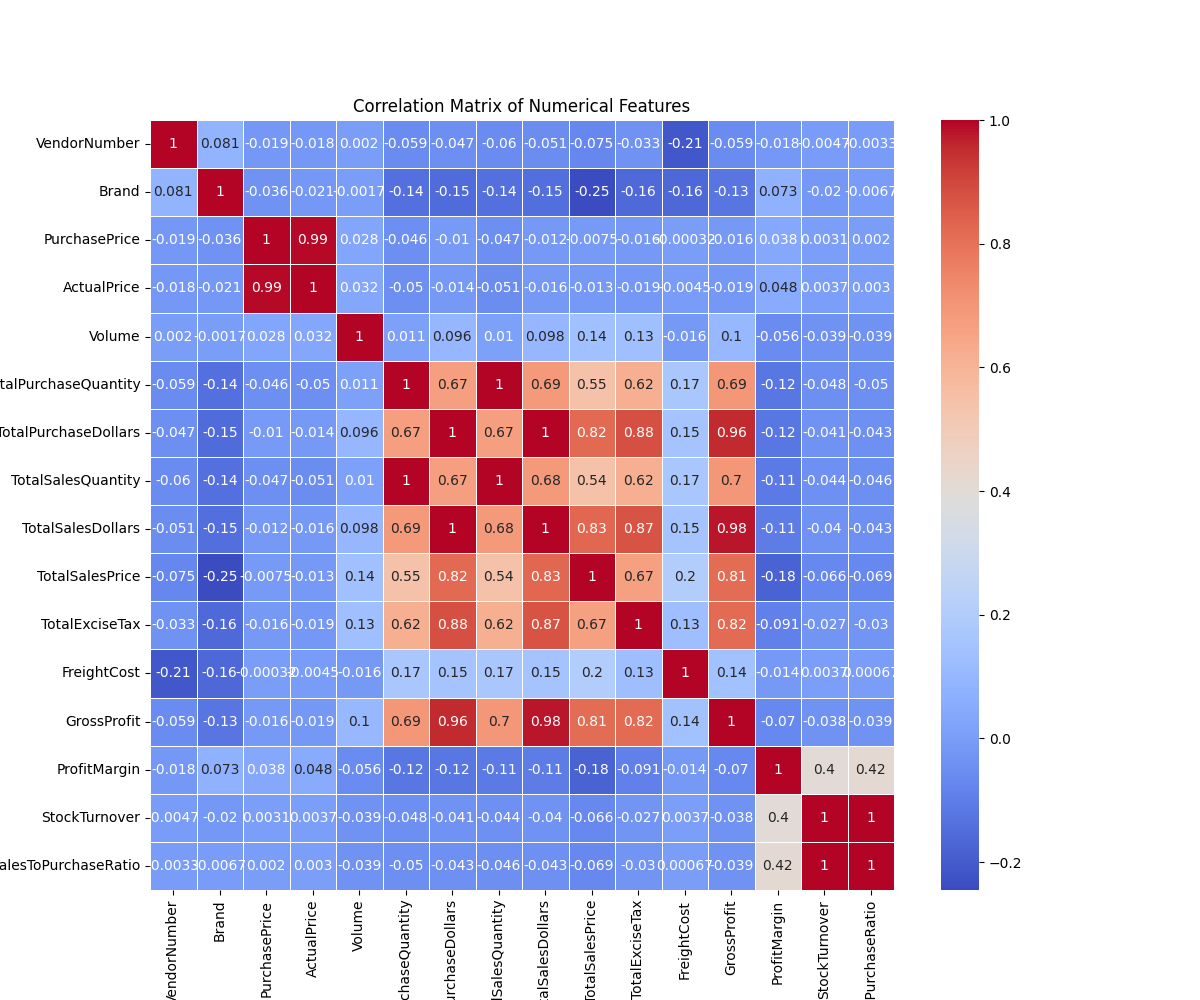
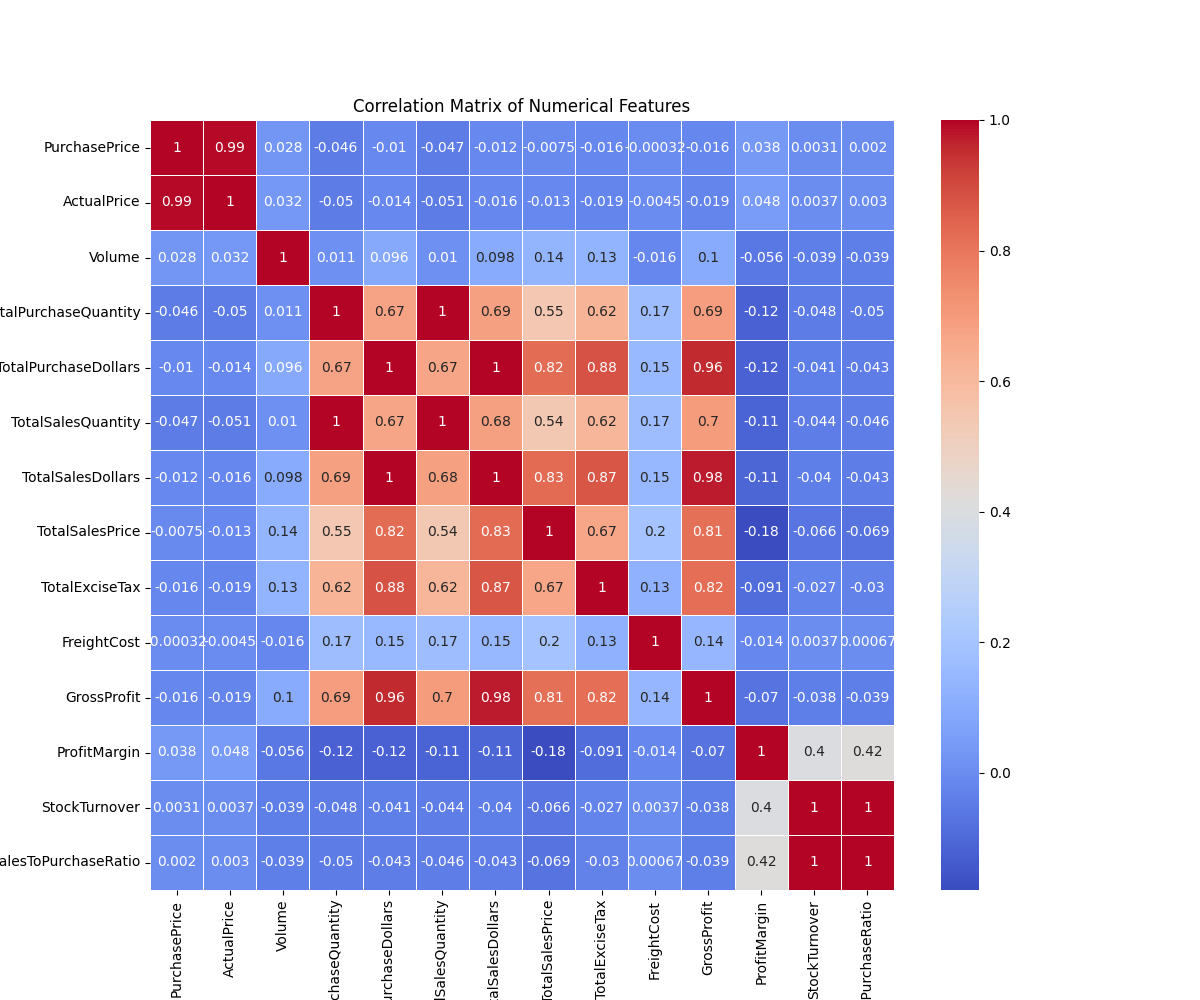
modify vendor_analysis.py

diff --git a/vendor_analysis.py b/vendor_analysis.py
@@ -114,6 +114,7 @@ class VendorAnalysis:
     def plot_correlation_heatmap(self, df=None):
         """Plot a correlation heatmap of all numerical features."""
         df = df if df is not None else self.quality_df
+        df = df.drop(['VendorNumber', 'Brand'], axis=1)
         numerical_cols = df.select_dtypes(exclude=['object']).columns
 
         fig,ax = plt.subplots(figsize=(12, 10))
